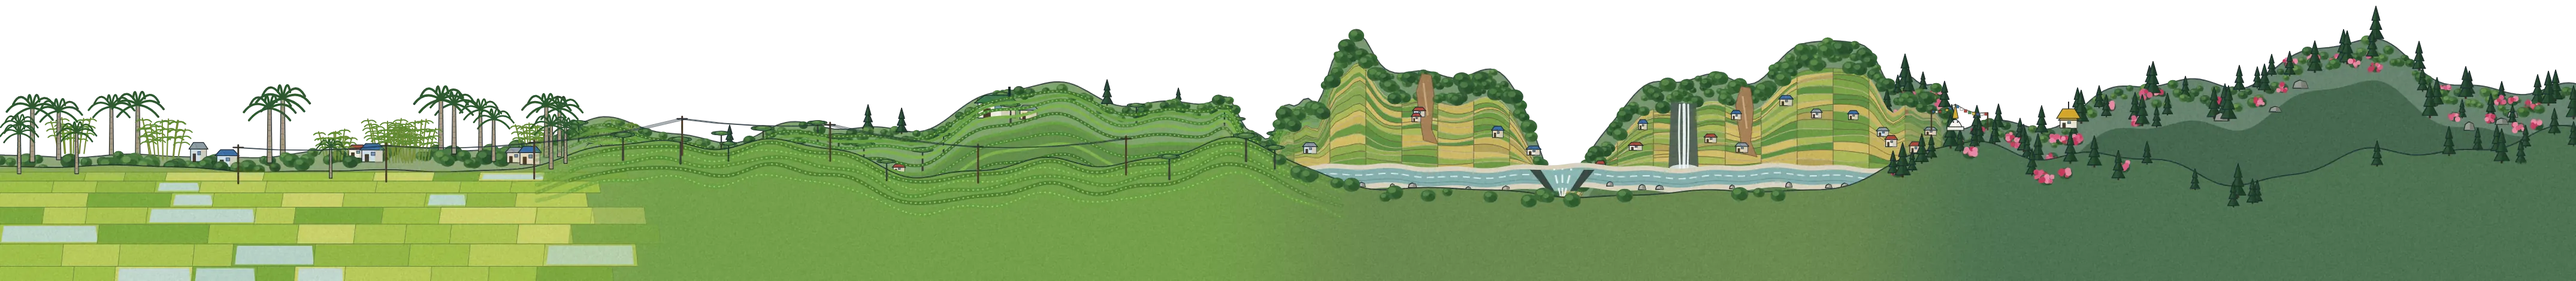
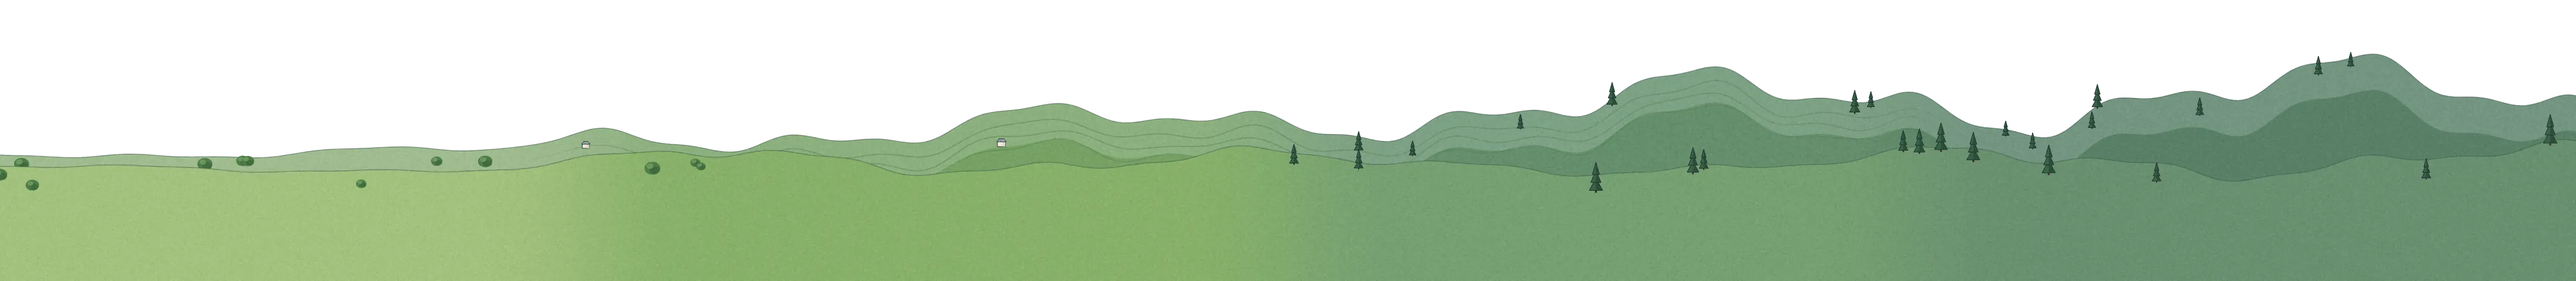
Simplify the ride background and remove all place names
Replace the detailed scenery with a minimal landscape of layered hills,
pine slopes and snow peaks that shifts from green foothills to
blue-green valleys to high mountains. No signs, shops, bridges or any
text in the scene; road, wheel and ride behaviour are unchanged.
Smaller images (about 250 KB for all three layers).

Claude-Session: https://claude.ai/code/session_01E8szLp4nXBjrKyqLyGL65V

diff --git a/index.html b/index.html
@@ -937,7 +937,7 @@
 
   <!-- The ride: scrolling moves the bike along the road -->
   <div class="ride-track" id="ride-track">
-    <div class="ride-stage" id="ride-stage" role="img" aria-label="Illustration of Utsab riding his black Pulsar 150 along a hill road through eastern Nepal: Jhapa paddy fields and areca palms, the tea gardens of Ilam, the Tamor river valley with terraced hills, and the snow peaks of Kanchenjunga. The bike moves along the road as the page scrolls.">
+    <div class="ride-stage" id="ride-stage" role="img" aria-label="Illustration of Utsab riding his black Pulsar 150 along a winding hill road, with green hills, pine slopes and snow peaks in the distance. The bike moves along the road as the page scrolls.">
       <div class="rw-sky" aria-hidden="true">
         <div class="rw-skyroll" id="rw-skyroll">
           <img src="assets/images/world-sky.webp" alt="" width="2000" height="560" />
@@ -948,7 +948,7 @@
       <img class="rw-layer" id="rw-far" src="assets/images/world-far.webp" alt="" width="3000" height="490" />
       <img class="rw-layer" id="rw-mid" src="assets/images/world-mid.webp" alt="" width="4300" height="470" />
       <span class="rw-mist rw-mist-a" aria-hidden="true"></span>
-      <img class="rw-layer" id="rw-ground" src="assets/images/world-ground.webp" alt="" width="5600" height="530" />
+      <img class="rw-layer" id="rw-ground" src="assets/images/world-ground.webp" alt="" width="5600" height="480" />
 
       <div class="rs" id="rs" aria-hidden="true">
         <span class="rs-shadow"></span>
@@ -1193,7 +1193,7 @@
     const LAYERS = [                                          // image, size and top in world units, parallax factor
       { el: document.getElementById('rw-far'),    w: 3000, h: 490, y: 150, f: 0.30 },
       { el: document.getElementById('rw-mid'),    w: 4300, h: 470, y: 330, f: 0.65 },
-      { el: document.getElementById('rw-ground'), w: 5600, h: 530, y: 470, f: 1.00 },
+      { el: document.getElementById('rw-ground'), w: 5600, h: 480, y: 520, f: 1.00 },
     ];
     const SKY = { w: 2000, h: 560 }, ANCHOR = { x: 356, y: 725 }, WHEEL_R = 122;
     const clamp = (v, a, b) => Math.min(b, Math.max(a, v));
